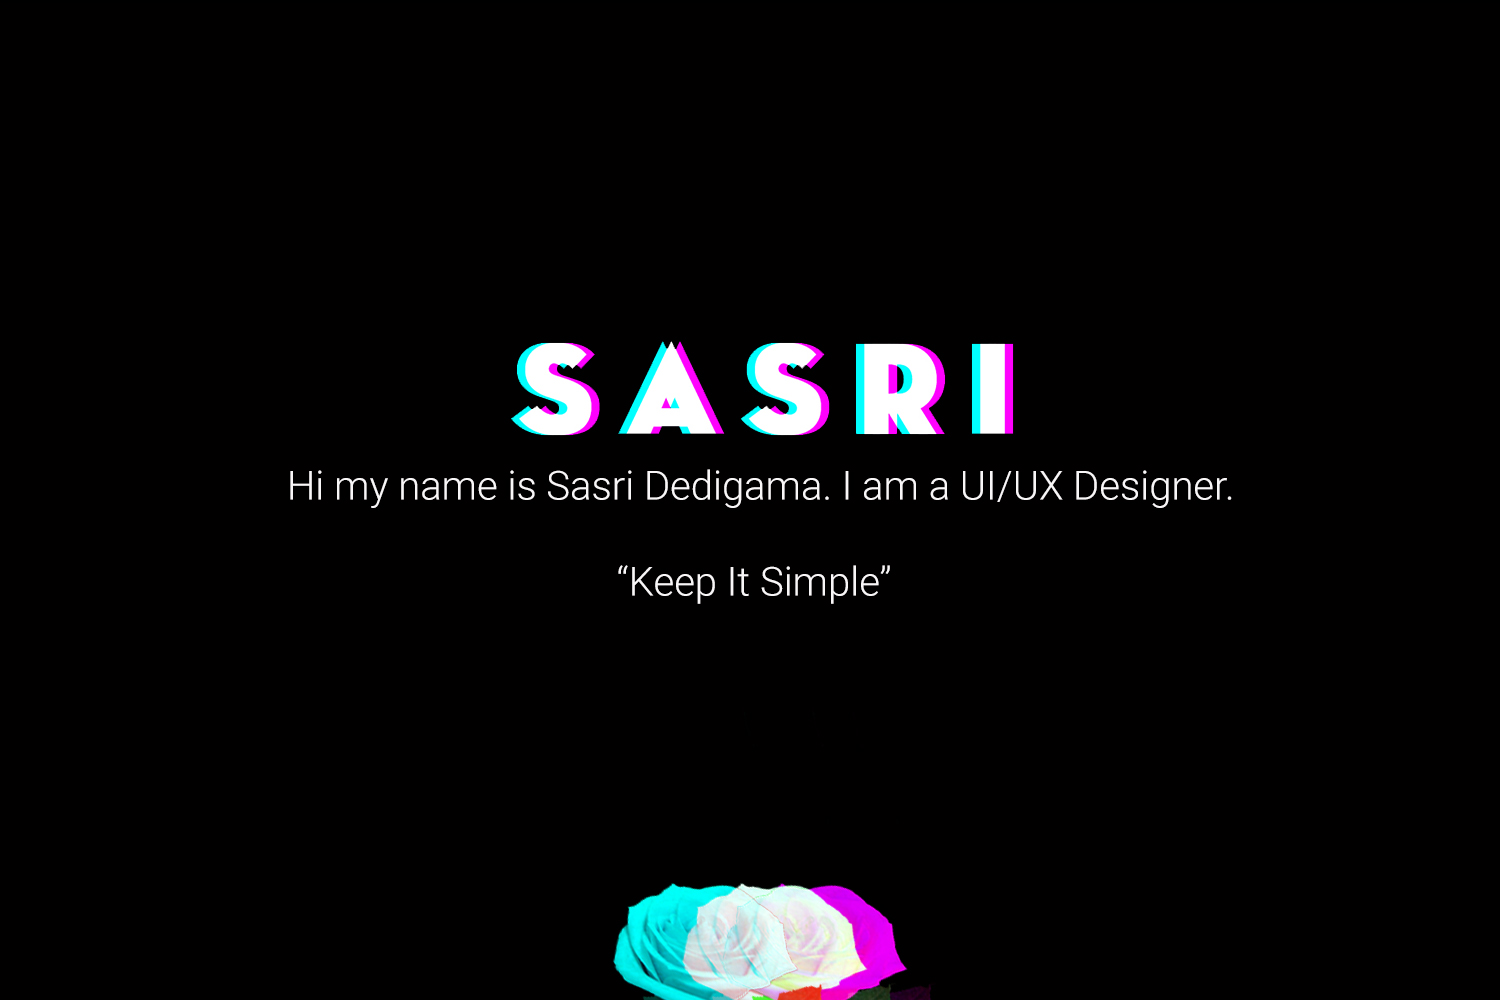
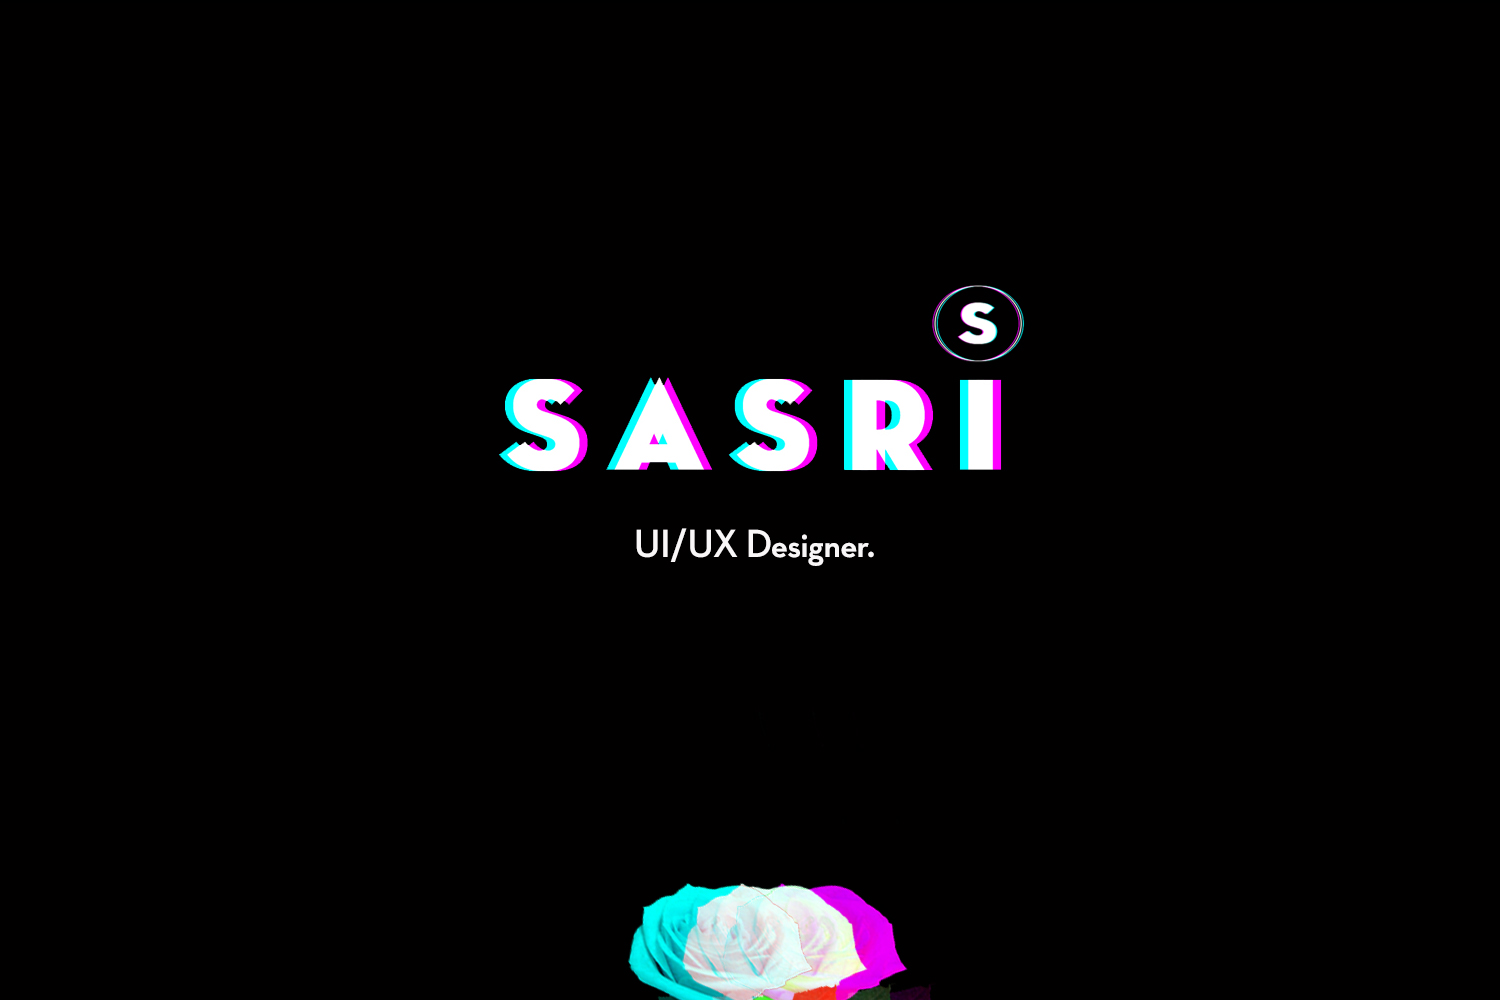
New Changes

Changed region(s): [[0.184, 0.279, 0.828, 0.496], [0.3987, 0.868, 0.5827, 1.0], [0.3987, 0.527, 0.5827, 0.62]]

diff --git a/index.html b/index.html
@@ -21,7 +21,9 @@
            TagCanvas.textFont = 'Roboto';
            TagCanvas.initial = [0.5,0.3];
            TagCanvas.wheelZoom	= false;
+           TagCanvas.noSelect = true;
            TagCanvas.Start('myCanvas');
+
           };
     </script>
 
@@ -68,20 +70,21 @@
 
 
 
-          <p>Hi, My name is Sasri Dedigama. I am a
-            junior at the University of California
-            San Deigo studying cognitive science
-            with a specialization in HCI.
+   <p class="center-justified">
+        Hi, My name is Sasri Dedigama.
+        I am a junior at the University of California
+        San Deigo studying cognitive science
+        with a specialization in HCI.
 
-            <br>
-            <br>
+        <br>
+        <br>
+        When it comes to UI/UX design I believe
+        that the most important things are
+        that we understand what the user WANTS and
+        NEEDS and finally try to keep the design as
+        simple as possible.
 
-            When it comes to UI/UX design I believe
-            that the most important things are
-            that we understand what the user WANTS and
-            NEEDS and finally try to keep the design as
-            simple as possible.
-
+          </p>
         </div>
 
 
@@ -127,19 +130,25 @@
 
   <div class="w3-row-padding">
     <div class="w3-third w3-container w3-margin-bottom">
-      <img src="p3.png" alt="Norway" style="width:100%" class="w3-hover-opacity">
+      <a href="https://p3-app.herokuapp.com/" target="_blank">
+      <img src="p3.png" alt="P3" style="width:100%"  class="w3-hover-opacity">
+    </a>
       <div class="w3-container w3-black" style="text-align:center">
         <p><b>UI/UX Designer</b></p>
       </div>
     </div>
     <div class="w3-third w3-container w3-margin-bottom">
-      <img src="whodis.JPG" alt="Norway" style="width:100%" class="w3-hover-opacity">
+    <a href="https://whodis123.wordpress.com/" target="_blank">
+      <img src="whodis.JPG" alt="whodis123" style="width:100%" class="w3-hover-opacity">
+    </a>
       <div class="w3-container w3-black" style="text-align:center">
         <p><b>UI/UX Designer / Web Developer</b></p>
       </div>
     </div>
     <div class="w3-third w3-container">
-      <img src="IQ.png" alt="Norway" style="width:100%" class="w3-hover-opacity">
+      <a href="http://iq.lk/" target="_blank">
+      <img src="IQ.png" alt="IQ" style="width:100%" class="w3-hover-opacity">
+    </a>
       <div class="w3-container w3-black" style="text-align:center">
         <p><b>UI/UX Design Intern</b></p>
       </div>
@@ -149,19 +158,23 @@
   <!-- Second Photo Grid-->
   <div class="w3-row-padding">
     <div class="w3-third w3-container w3-margin-bottom">
-      <img src="citi.png" alt="Norway" style="width:100%" class="w3-hover-opacity">
+      <a  href="https://www.citigroup.com/citi/">
+      <img src="citi.png" alt="Citi" style="width:100%" class="w3-hover-opacity">
+      <a>
       <div class="w3-container w3-black" style="text-align:center">
         <p><b>Treasury Intern</b></p>
       </div>
     </div>
     <div class="w3-third w3-container w3-margin-bottom">
+      <a href="https://globalties.ucsd.edu/projects/Diabeatit.html" target="_blank">
       <img src="diabeatit.png" alt="Norway" style="width:100%" class="w3-hover-opacity">
+      <a>
       <div class="w3-container w3-black" style="text-align:center">
         <p><b>UI/UX Designer</b></p>
       </div>
     </div>
     <div class="w3-third w3-container">
-      <img src="cis.png" alt="Norway" style="width:100%" class="w3-hover-opacity">
+      <img src="cis.png" alt="cis" style="width:100%" class="w3-hover-opacity">
       <div class="w3-container w3-black" style="text-align:center">
         <p><b>Front End Developer</b></p>
       </div>
@@ -176,23 +189,6 @@
       </div>
     </div>
   </div>
-<!--
-
-
-    <div class="w3-third w3-container w3-margin-bottom">
-      <img src="diabeatit.png" alt="Norway" style="width:100%" class="w3-hover-opacity">
-      <div class="w3-container w3-black" style="text-align:center">
-        <p><b>Lorem Ipsum</b></p>
-      </div>
-    </div>
-    <div class="w3-third w3-container">
-      <img src="cis.png" alt="Norway" style="width:100%" class="w3-hover-opacity">
-      <div class="w3-container w3-black" style="text-align:center">
-        <p><b>Lorem Ipsum</b></p>
-      </div>
-    </div>
-  </div>
--->
 
 </section>
 

diff --git a/style.css b/style.css
@@ -35,7 +35,7 @@ h1 {
     width: 100%;
     color: black;
     text-align: center;
-    font-size: 2em;
+    font-size: 20px;
     line-height: 1.2;
 
     }
@@ -43,9 +43,14 @@ h1 {
 #about img {
 
    border:3px solid  #000;
+   align-items: center;
 }
 
-
+.center-justified {
+    margin: 0 auto;
+    text-align: justify;
+    width: 30rem;
+}
 
 #skills {
 
@@ -68,7 +73,7 @@ h1 {
 
 #projects img{
 
-  width: 200px;
+  width: 100px;
   height: 300px;
   margin-top: 10px;
   padding: 10px;
@@ -621,6 +626,16 @@ Animation keyframes
     .index-content .col-lg-4 {
         margin-top: 20px;
     }
+    .center-justified{
+      width: 90%;
+
+    }
+
+    #myCanvas {
+
+      width: 700px;
+      height: 500px;
+    }
 }
 
 
@@ -637,11 +652,7 @@ Animation keyframes
   .text {
     font-size: 5vw;
   }
-  #myCanvas {
 
-    width: 500px;
-    height: 300px;
-  }
 }
 
 
